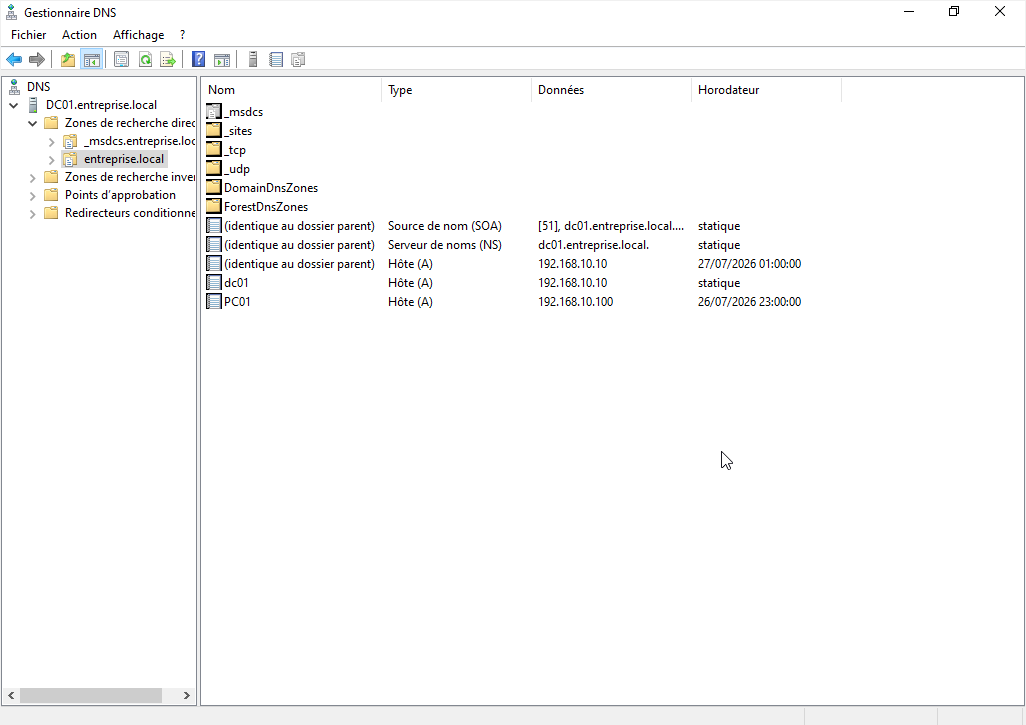
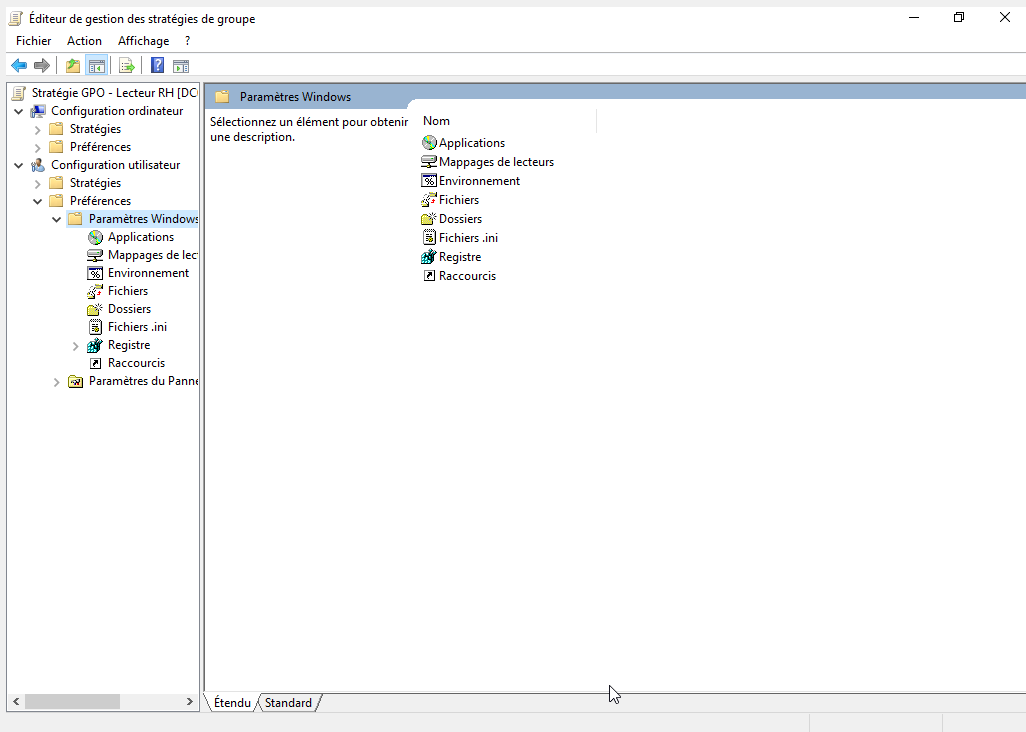
Completed windows 11 domain integration documentation

diff --git a/README.md b/README.md
@@ -109,11 +109,22 @@ Implemented:
 
 ### Windows 11 Client
 
-- Joined Windows 11 to the domain
-- Logged in with a domain user
-- Verified network configuration
+Joined a Windows 11 workstation to the Active Directory domain and verified network connectivity.
 
----
+Verified:
+
+- Successful domain join
+- Domain user authentication
+- DNS resolution
+- DHCP IP assignment
+- Group Policy application
+- Network drive deployment (R:)
+
+#### Screenshots
+
+![Windows 11 Domain Client](screenshots/09-windows11-domain.png)
+
+![IP Configuration](screenshots/10-ipconfig-all.png)
 
 ## 📚 Skills Demonstrated
 
